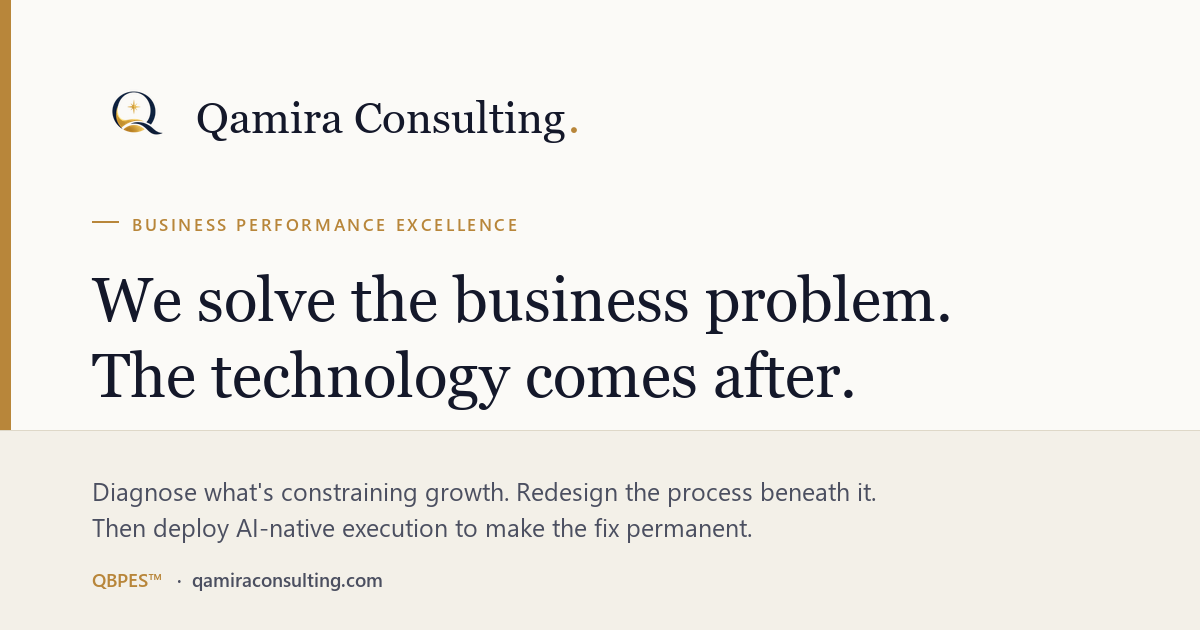
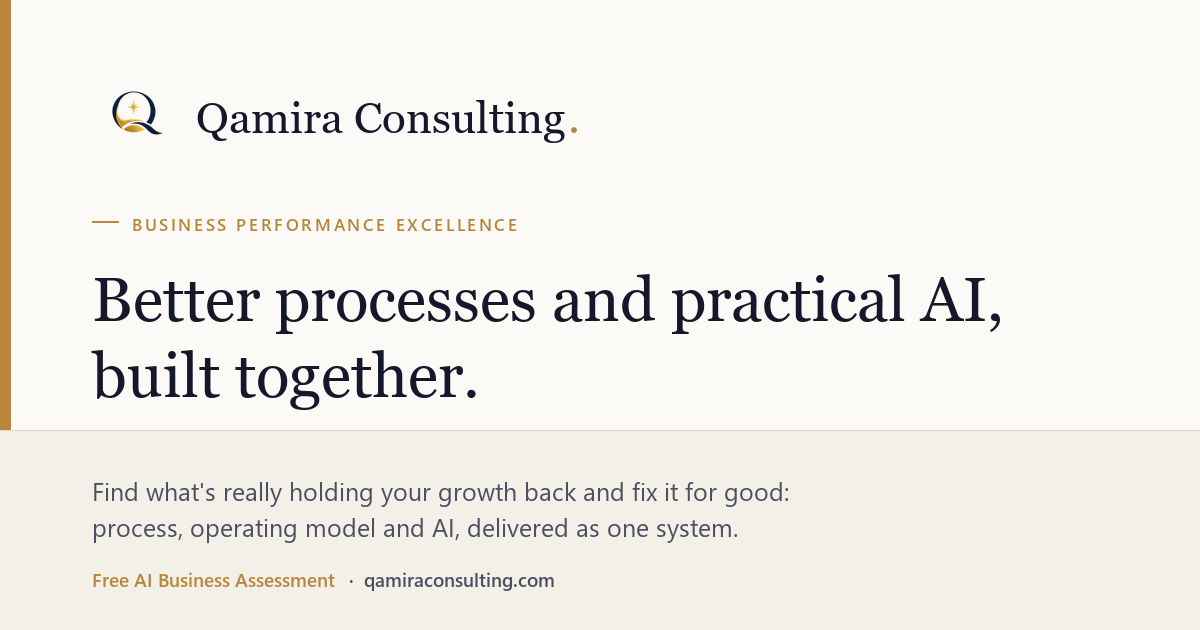
Reword the social preview card to match the new hero
The card shown whenever a qamiraconsulting.com link is shared still
said "The technology comes after" and "Then deploy AI-native execution",
the sequential framing the hero no longer uses, plus an unexplained
QBPES label. It now carries the hero's line and points at the free
AI Business Assessment instead.

diff --git a/scripts/make-og-card.py b/scripts/make-og-card.py
@@ -42,11 +42,14 @@ DIVIDER_Y = 430
 
 # --- Copy ---------------------------------------------------------------
 EYEBROW = "BUSINESS PERFORMANCE EXCELLENCE"
-HEADLINE = ["We solve the business problem.", "The technology comes after."]
+HEADLINE = ["Better processes and practical AI,", "built together."]
 SUPPORTING = [
-    "Diagnose what's constraining growth. Redesign the process beneath it.",
-    "Then deploy AI-native execution to make the fix permanent.",
+    "Find what's really holding your growth back and fix it for good:",
+    "process, operating model and AI, delivered as one system.",
 ]
+# Brass label in the footer line. Was "QBPES(TM)", which reads as jargon
+# to someone seeing the card cold in a feed.
+FOOTER_LABEL = "Free AI Business Assessment"
 
 # --- Font resolution, in fallback-stack order per platform --------------
 DISPLAY_SERIF = [
@@ -128,8 +131,8 @@ def main():
         d.text((PAD, 474 + i * 36), line, font=f_body, fill=CHARCOAL_DIM)
 
     f_meta = font(BODY_SANS_SEMIBOLD, 19)
-    d.text((PAD, 566), "QBPES\u2122", font=f_meta, fill=BRASS)
-    meta_width = d.textlength("QBPES\u2122", font=f_meta)
+    d.text((PAD, 566), FOOTER_LABEL, font=f_meta, fill=BRASS)
+    meta_width = d.textlength(FOOTER_LABEL, font=f_meta)
     d.text((PAD + meta_width + 14, 566), "\u00b7  qamiraconsulting.com", font=f_meta, fill=CHARCOAL_DIM)
 
     OUT.parent.mkdir(parents=True, exist_ok=True)
